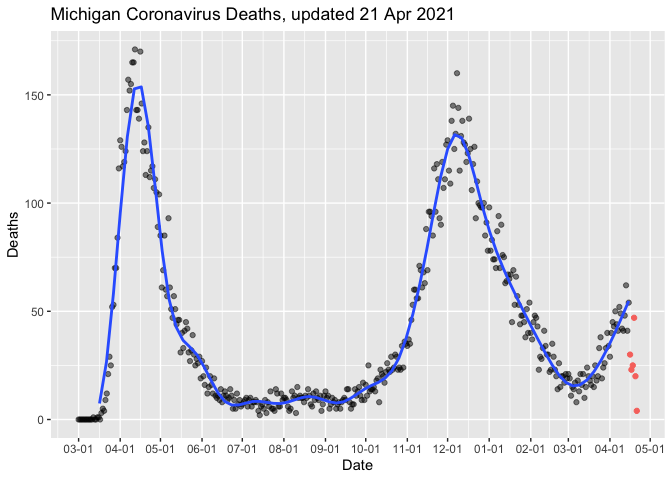
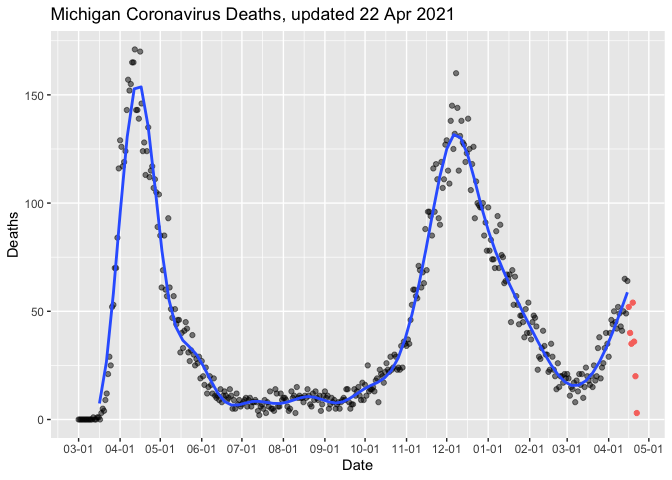
Apr-22 2021 20:10 update

diff --git a/MiCorona.md b/MiCorona.md
@@ -34,7 +34,7 @@ mi_data = readxl::read_excel("data/covid.xlsx")
 glimpse(mi_data)
 ```
 
-    ## Rows: 73,404
+    ## Rows: 73,580
     ## Columns: 8
     ## $ COUNTY            <chr> "Alcona", "Alcona", "Alcona", "Alcona", "Alcona", "A…
     ## $ Date              <dttm> 2020-03-01, 2020-03-02, 2020-03-03, 2020-03-04, 202…
@@ -43,7 +43,7 @@ glimpse(mi_data)
     ## $ Deaths            <dbl> 0, 0, 0, 0, 0, 0, 0, 0, 0, 0, 0, 0, 0, 0, 0, 0, 0, 0…
     ## $ Cases.Cumulative  <dbl> 0, 0, 0, 0, 0, 0, 0, 0, 0, 0, 0, 0, 0, 0, 0, 0, 0, 0…
     ## $ Deaths.Cumulative <dbl> 0, 0, 0, 0, 0, 0, 0, 0, 0, 0, 0, 0, 0, 0, 0, 0, 0, 0…
-    ## $ Updated           <dttm> 2021-04-21 14:24:52, 2021-04-21 14:24:52, 2021-04-2…
+    ## $ Updated           <dttm> 2021-04-22 13:54:37, 2021-04-22 13:54:37, 2021-04-2…
 
 Wrangle Data:
 
@@ -140,7 +140,7 @@ mi_cases_by_day_exclusive %>%
 
 ![](MiCorona_files/figure-gfm/viz2-1.png)<!-- -->
 
-Note that the last 6 days of data have been colored red on the graph, as
+Note that the last 7 days of data have been colored red on the graph, as
 they frequently change as more information becomes available. Vertical
 orange line at 3 weeks in the past (as hospitalizations and deaths
 usually follow cases by three weeks).
